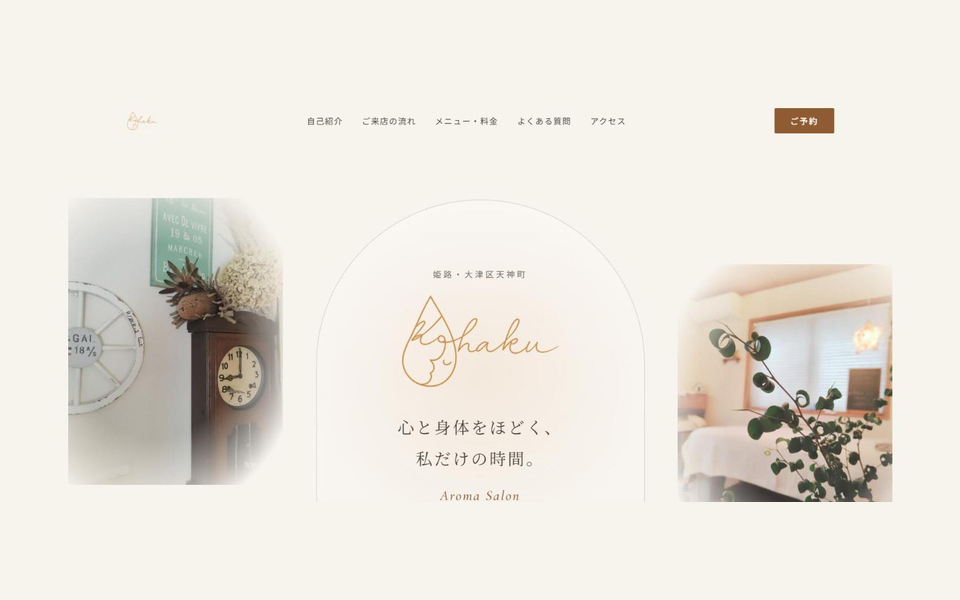
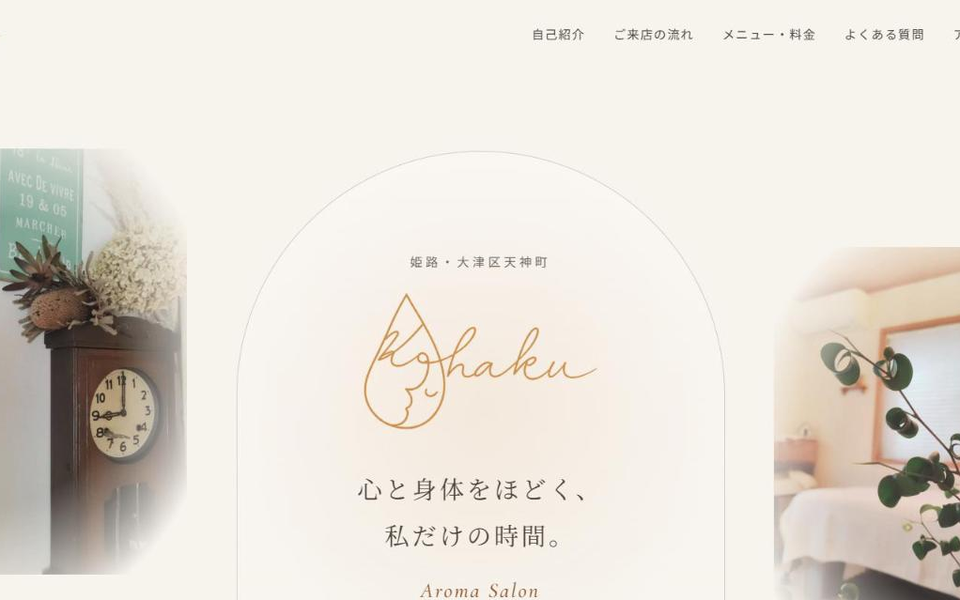
ポートフォリオ: 琥珀カードを現状に合わせる(予約ボタン削除後の画面・計測項目・予約はLINEから) (#24)

diff --git a/portfolio/index.html b/portfolio/index.html
@@ -303,23 +303,23 @@ const SITE = {
         "tech": "HTML / CSS / JS(静的・ビルド不要) / 構造化データ / GA4",
         "href": "https://tassy5865-lang.github.io/kohaku-site/",
         "before": "予約前に知りたい来店の流れや料金、アクセスが、サイト上で一か所にまとまっていない",
-        "after": "自己紹介・来店の流れ・メニュー料金・よくある質問・アクセスを一ページで確認し、そのまま予約へ進める",
+        "after": "自己紹介・来店の流れ・メニュー料金・よくある質問・アクセスを一ページで確認し、そのまま公式LINEから予約の連絡ができる",
         "useCases": [
           "個人サロン・小規模店舗の公式サイトが欲しい場面",
           "メニュー・料金・アクセスを一ページにまとめたい場面",
-          "予約や地図の利用状況をアクセス解析で把握したい場面"
+          "LINEや地図の利用状況をアクセス解析で把握したい場面"
         ],
         "image": "assets/work-kohaku.png",
-        "imageAlt": "琥珀の公式サイトのトップ画面。ロゴと店内の写真、ご予約ボタン",
+        "imageAlt": "琥珀の公式サイトのトップ画面。ロゴとキャッチコピー、店内の写真",
         "challenge": "料金や来店の流れが探しにくい",
         "benefit": "予約前に知りたい情報を一ページに",
         "background": "店舗の雰囲気や来店の流れを、予約前に落ち着いて確認できるようにするためのサイトです。オープニング動画、自己紹介、メニュー・料金、よくある質問、アクセスを一ページにまとめています。",
-        "usage": "サロンの公式サイトとして公開中です。予約・LINE・Instagram・地図のクリックをGA4で計測できるようにしています。",
-        "verified": "公開ページのトップ画面で、ロゴ・店内写真・ナビゲーション・ご予約ボタンが表示されることを確認しました。",
+        "usage": "サロンの公式サイトとして公開中です。LINE・Instagram・地図のクリックをGA4で計測できるようにしています。",
+        "verified": "公開ページのトップ画面で、ロゴ・キャッチコピー・店内写真・ナビゲーションが表示されることを確認しました。",
         "limits": "予約件数や集客効果は計測・掲載していません。",
         "imageCaption": "琥珀の公式サイトのトップ画面。",
         "summary": "画面で確認：来店の流れ・料金・アクセスを一ページに集約。",
-        "verifiedDate": "2026-10-11"
+        "verifiedDate": "2026-11-14"
       }
     ]
   },
